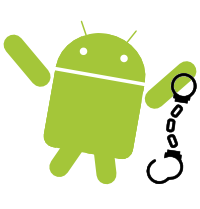
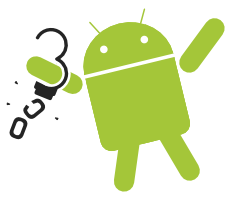
update android campaign image and remove duplicated paragraph
svn path=/trunk/; revision=28278

Changed region(s): [[0.0, 0.03, 0.99, 0.96], [0.06, 0.39, 0.09, 0.42], [0.03, 0.51, 0.06, 0.54]]

diff --git a/look/fsfe.min.css b/look/fsfe.min.css
@@ -1439,7 +1439,7 @@ textarea#donate-fsfe form .form-group input{height:auto}
 #donate-fsfe form #donate-validate:active,#donate-fsfe form #donate-validate.active,.open .dropdown-toggle#donate-fsfe form #donate-validate{background-image:none}
 #donate-fsfe form #donate-validate.disabled,#donate-fsfe form #donate-validate[disabled],fieldset[disabled] #donate-fsfe form #donate-validate,#donate-fsfe form #donate-validate.disabled:hover,#donate-fsfe form #donate-validate[disabled]:hover,fieldset[disabled] #donate-fsfe form #donate-validate:hover,#donate-fsfe form #donate-validate.disabled:focus,#donate-fsfe form #donate-validate[disabled]:focus,fieldset[disabled] #donate-fsfe form #donate-validate:focus,#donate-fsfe form #donate-validate.disabled:active,#donate-fsfe form #donate-validate[disabled]:active,fieldset[disabled] #donate-fsfe form #donate-validate:active,#donate-fsfe form #donate-validate.disabled.active,#donate-fsfe form #donate-validate[disabled].active,fieldset[disabled] #donate-fsfe form #donate-validate.active{background-color:#5cb85c;border-color:#4cae4c}
 #donate-fsfe form #donate-validate .badge{color:#5cb85c;background-color:#fff}
-#hello-free-droid{background:url('/campaigns/android/robot.png') no-repeat top left transparent;height:209px;width:200px;float:left;margin-left:-6em;margin-right:1.5em}@media (min-width:992px){#hello-free-droid{position:absolute;margin-left:-200px;margin-top:-10em}}#hello-free-droid img{display:none}
+#hello-free-droid{background:url('/campaigns/android/robot.png') no-repeat top left transparent;height:200px;width:230px;float:left;margin-left:-6em;margin-right:1.5em}@media (min-width:992px){#hello-free-droid{position:absolute;margin-left:-200px;margin-top:-10em}}#hello-free-droid img{display:none}
 .valentine-ilovefs #logo{background:url(/graphics/logov.png) top left no-repeat}
 .valentine-ilovefs .svg #logo{background:url(/graphics/logov.svg) top left no-repeat}
 .valentine-ilovefs #followup{background:url(/graphics/ribbonv.png) no-repeat 100% -40px #fff}@media (min-width:768px){.valentine-ilovefs #followup{background:url(/graphics/ribbonv.png) no-repeat 100% -70px #fff}}

diff --git a/look/valentine.min.css b/look/valentine.min.css
@@ -1439,7 +1439,7 @@ textarea#donate-fsfe form .form-group input{height:auto}
 #donate-fsfe form #donate-validate:active,#donate-fsfe form #donate-validate.active,.open .dropdown-toggle#donate-fsfe form #donate-validate{background-image:none}
 #donate-fsfe form #donate-validate.disabled,#donate-fsfe form #donate-validate[disabled],fieldset[disabled] #donate-fsfe form #donate-validate,#donate-fsfe form #donate-validate.disabled:hover,#donate-fsfe form #donate-validate[disabled]:hover,fieldset[disabled] #donate-fsfe form #donate-validate:hover,#donate-fsfe form #donate-validate.disabled:focus,#donate-fsfe form #donate-validate[disabled]:focus,fieldset[disabled] #donate-fsfe form #donate-validate:focus,#donate-fsfe form #donate-validate.disabled:active,#donate-fsfe form #donate-validate[disabled]:active,fieldset[disabled] #donate-fsfe form #donate-validate:active,#donate-fsfe form #donate-validate.disabled.active,#donate-fsfe form #donate-validate[disabled].active,fieldset[disabled] #donate-fsfe form #donate-validate.active{background-color:#5cb85c;border-color:#4cae4c}
 #donate-fsfe form #donate-validate .badge{color:#5cb85c;background-color:#fff}
-#hello-free-droid{background:url('/campaigns/android/robot.png') no-repeat top left transparent;height:209px;width:200px;float:left;margin-left:-6em;margin-right:1.5em}@media (min-width:992px){#hello-free-droid{position:absolute;margin-left:-200px;margin-top:-10em}}#hello-free-droid img{display:none}
+#hello-free-droid{background:url('/campaigns/android/robot.png') no-repeat top left transparent;height:200px;width:230px;float:left;margin-left:-6em;margin-right:1.5em}@media (min-width:992px){#hello-free-droid{position:absolute;margin-left:-200px;margin-top:-10em}}#hello-free-droid img{display:none}
 .valentine-ilovefs #logo{background:url(/graphics/logov.png) top left no-repeat}
 .valentine-ilovefs .svg #logo{background:url(/graphics/logov.svg) top left no-repeat}
 .valentine-ilovefs #followup{background:url(/graphics/ribbonv.png) no-repeat 100% -40px #fff}@media (min-width:768px){.valentine-ilovefs #followup{background:url(/graphics/ribbonv.png) no-repeat 100% -70px #fff}}

diff --git a/look/fsfe.less b/look/fsfe.less
@@ -274,8 +274,8 @@ a.the-fellowship {
 
 #hello-free-droid {
     background: url('/campaigns/android/robot.png') no-repeat top left transparent;
-    height: 209px;
-    width: 200px;
+    height: 200px;
+    width: 230px;
     float: left;
     margin-left: -6em;
     margin-right: 1.5em;
